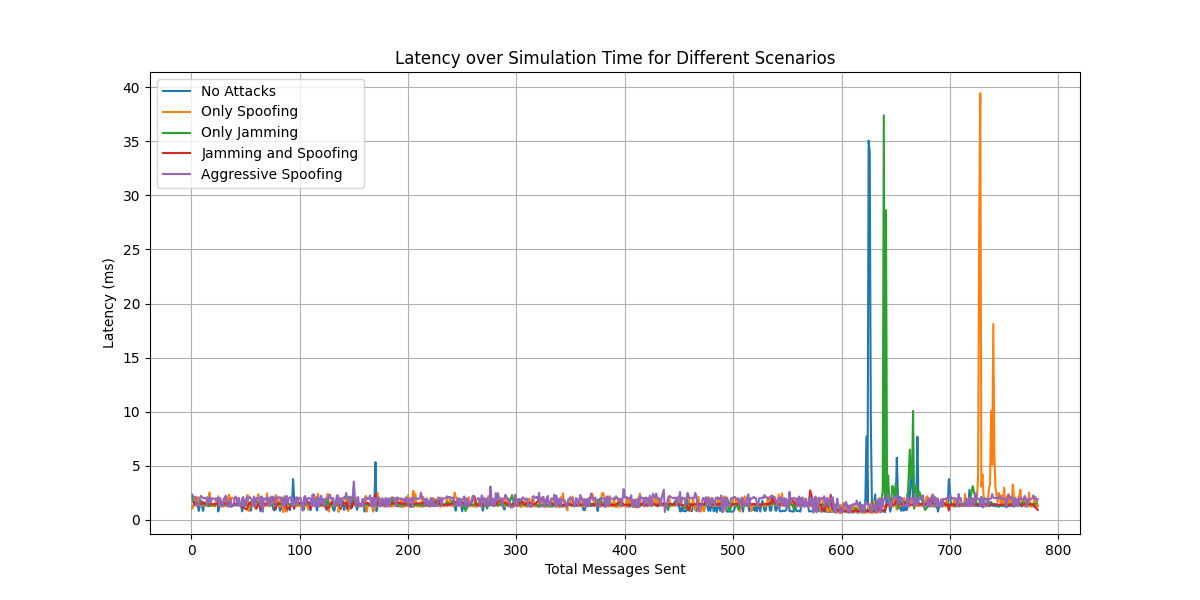
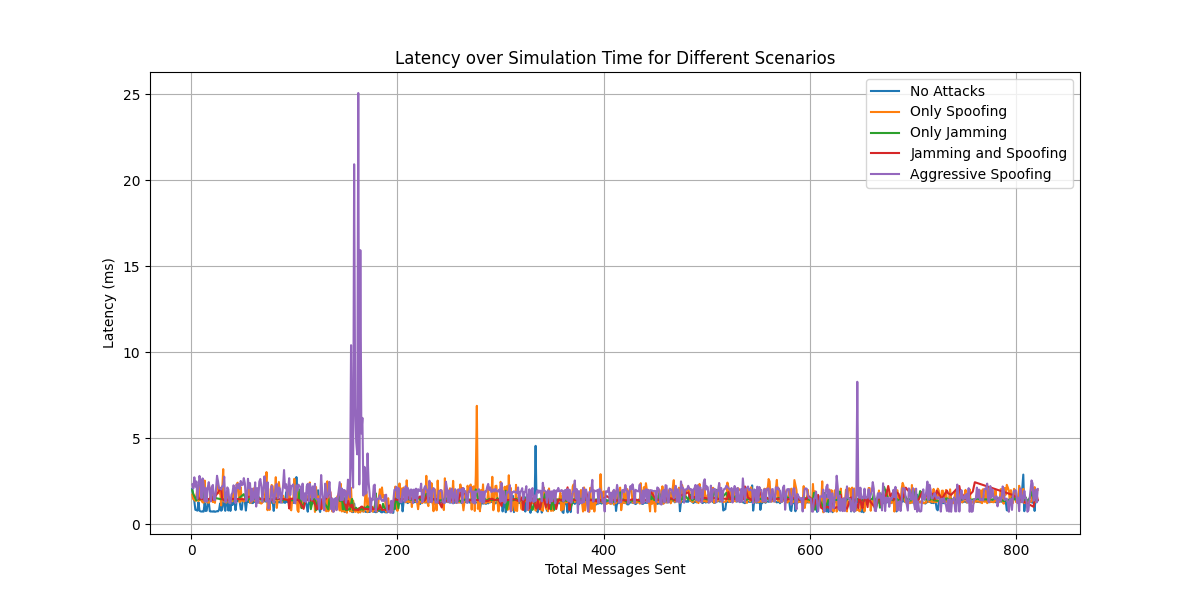
Updated jammers to have same power..

diff --git a/n_scen_stat.py b/n_scen_stat.py
@@ -278,10 +278,10 @@ def run_simulation_jammer():
 
     jammers = [
         Jammer(jamming_type="CW"   , jamming_power_dbm=45, center_freq=1090e6, offset_freq=0.2e6),
-        Jammer(jamming_type="PULSE", jamming_power_dbm=35, center_freq=1090e6, pulse_width_us=15.0, pulse_repetition_freq=40000.0),
-        Jammer(jamming_type="SWEEP", jamming_power_dbm=25, center_freq=1090e6, sweep_range_hz=1e6, sweep_time_us=100.0),
+        Jammer(jamming_type="PULSE", jamming_power_dbm=45, center_freq=1090e6, pulse_width_us=15.0, pulse_repetition_freq=40000.0),
+        Jammer(jamming_type="SWEEP", jamming_power_dbm=45, center_freq=1090e6, sweep_range_hz=1e6, sweep_time_us=100.0),
         Jammer(jamming_type="DIRECTIONAL", jamming_power_dbm=45, center_freq=1090e6 + 10e3, 
-            gcs_position=gcs_pos, position=jammer_pos, beam_width_deg=20.0, antenna_gain_dbi=15.0)
+            gcs_position=gcs_pos, position=jammer_pos, beam_width_deg=20.0, antenna_gain_dbi=10.0)
     ]
     # For Directional Jammer, I added 10kHz intensionally for graph to be distinguishable
 

diff --git a/jammer.py b/jammer.py
@@ -115,6 +115,7 @@ class Jammer:
             Maximum reduction is capped at 3dB at 500kHz offset
 
             This is oversimplified because real Radio Frequency filters don't have this linear response.
+            
         """
 
         # bit_time_us is required for PULSE type jammer..(maybe?)
